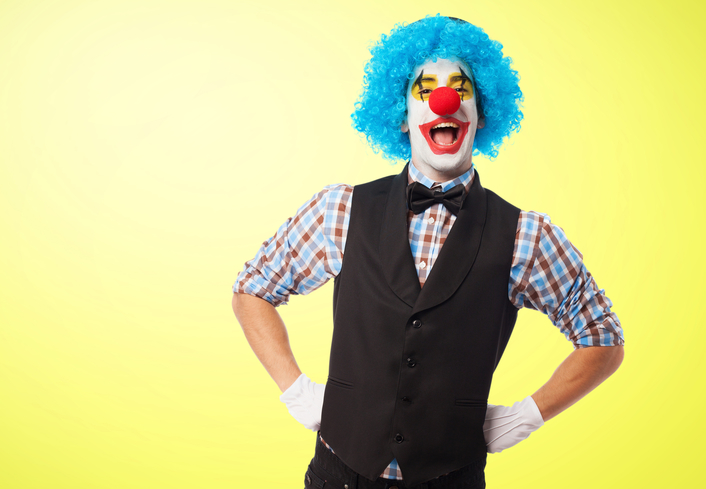
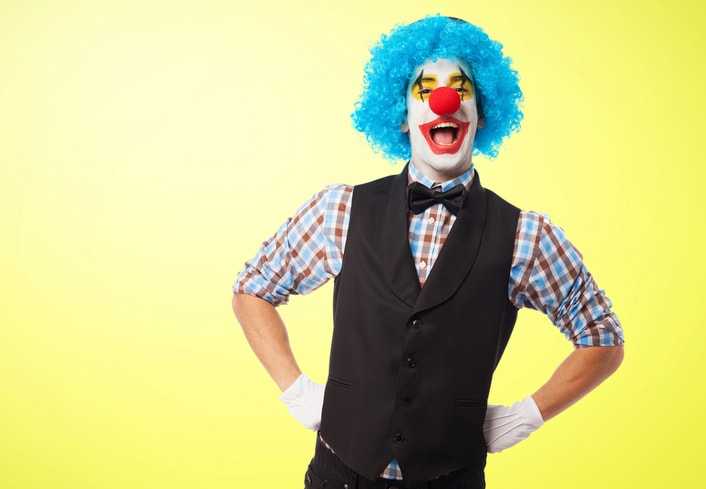
Images resizing

diff --git a/index.html b/index.html
@@ -7,6 +7,10 @@
     <meta charset="UTF-8">
     <meta name="viewport" content="width=device-width, initial-scale=1, shrink-to-fit=no">
 
+    <!-- Description -->
+    <meta name="Laughacademy" content="Teaching how to make people laugh while having fun is our kind of art. 
+    Our mission is to bring laughter and joy into the world as well as promote extraordinary theatrical classes and events to adults and children. ">
+
     <!-- Bootstrap CSS / JS / jQuery -->
     <link rel="stylesheet" href="https://stackpath.bootstrapcdn.com/bootstrap/4.5.2/css/bootstrap.min.css"
         integrity="sha384-JcKb8q3iqJ61gNV9KGb8thSsNjpSL0n8PARn9HuZOnIxN0hoP+VmmDGMN5t9UJ0Z" crossorigin="anonymous">
